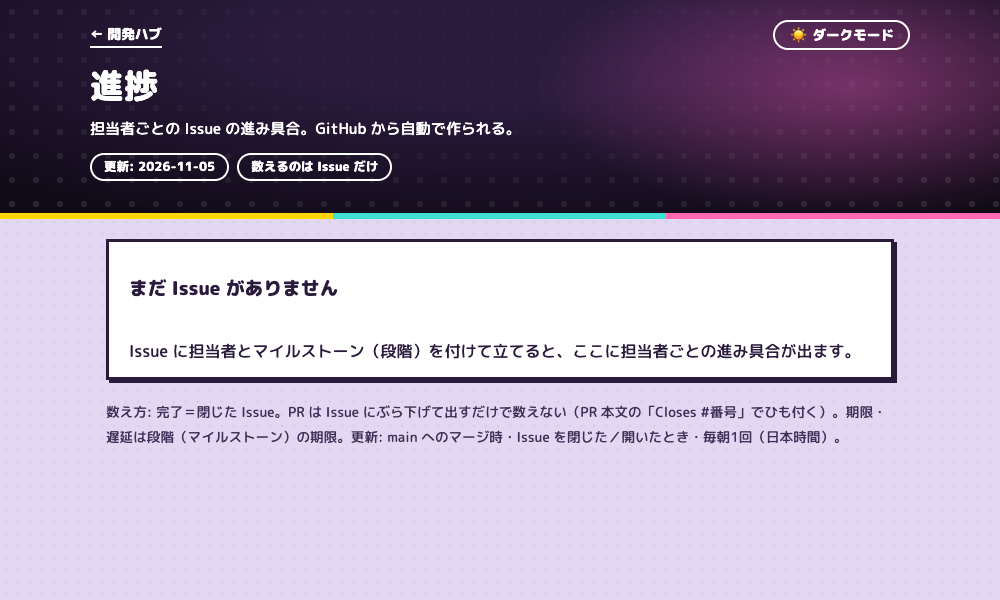
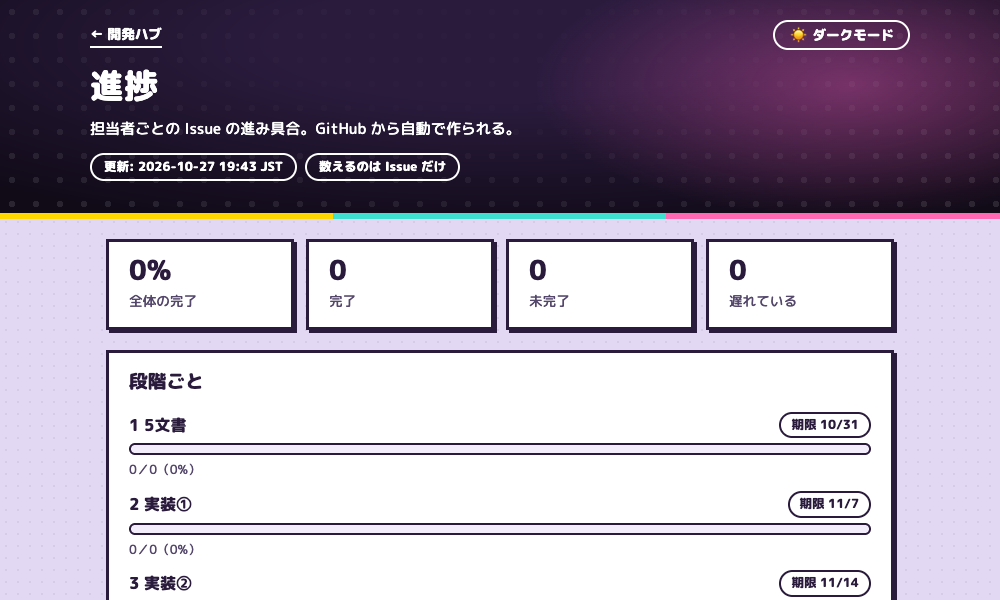
feat: 進捗の担当者欄を3名＋担当未定にし、サンプル表示に札を付ける (M80-22)

diff --git a/scripts/build-progress.py b/scripts/build-progress.py
@@ -4,7 +4,8 @@
 GitHub の Issue とマイルストーンを API で読み、担当者ごとの進み具合を HTML 1枚にする。
   - 数えるのは Issue だけ（完了＝閉じた Issue）。PR は Issue にぶら下げて表示するだけで数えない
   - 期限・遅延はマイルストーン（段階）の due_on（日本時間の日付）
-  - 表示名は munder/progress-names.json（アカウント名 → 表示名）。無い人はアカウント名のまま
+  - 担当者欄に出すのは munder/progress-names.json に載っている人（アカウント名 → 表示名）だけ。
+    それ以外のアカウントや担当なしの Issue は「担当未定」1枠にまとめる（数えはする）
 
 使い方:
   GITHUB_TOKEN=... GITHUB_REPOSITORY=owner/repo python scripts/build-progress.py --out _site
@@ -23,7 +24,7 @@ import urllib.request
 JST = dt.timezone(dt.timedelta(hours=9))
 ROOT = os.path.dirname(os.path.dirname(os.path.abspath(__file__)))
 CLOSE_RE = re.compile(r"\b(?:close[sd]?|fix(?:e[sd])?|resolve[sd]?)\s*:?\s+#(\d+)", re.I)
-NO_ASSIGNEE = "（担当なし）"
+NO_ASSIGNEE = "担当未定"
 NO_MILESTONE = "段階なし"
 
 
@@ -79,7 +80,7 @@ def build_model(issues, milestones, names, today):
         d = due.get(ms["number"]) if ms else None
         done = i["state"] == "closed"
         late = (today - d).days if (d and not done and today > d) else 0
-        logins = [a["login"] for a in i.get("assignees") or []] or [None]
+        logins = [a["login"] for a in i.get("assignees") or [] if a["login"] in names] or [None]
         rows.append({"number": i["number"], "title": i["title"], "url": i["html_url"], "done": done,
                      "stage": ms["title"] if ms else NO_MILESTONE, "due": d, "late": late,
                      "assignees": logins, "prs": linked.get(i["number"], [])})
@@ -87,7 +88,7 @@ def build_model(issues, milestones, names, today):
     for r in rows:
         for login in r["assignees"]:
             key = login or NO_ASSIGNEE
-            p = people.setdefault(key, {"name": names.get(login, login) if login else NO_ASSIGNEE,
+            p = people.setdefault(key, {"name": names[login] if login else NO_ASSIGNEE,
                                         "login": login, "rows": []})
             p["rows"].append(r)
     order = sorted(people.values(), key=lambda p: (p["login"] is None, p["name"]))
@@ -173,12 +174,13 @@ CSS = """
 .st.set{background:var(--m1);color:#12091F;border:var(--bw1) solid var(--line)}
 .pr{font-size:var(--fs-xs);font-weight:800}
 .stg2 li{display:grid;grid-template-columns:minmax(0,1fr) auto;gap:4px var(--s3);align-items:center}.stg2 .bar{grid-column:1/-1}.sn{font-weight:800}.sv{font-size:var(--fs-xs);color:var(--csub)}
+.sample{display:inline-block;margin-left:var(--s3);padding:0 14px;border:var(--bw2) solid var(--btxt);border-radius:var(--rp);background:var(--m1);color:#12091F;font:800 var(--fs-m)/1.8 var(--body);vertical-align:middle;-webkit-text-stroke:0}.sample-note{margin:var(--s3) 0 0;font-weight:800;font-size:var(--fs-s)}
 .note{font-size:var(--fs-s);color:var(--sub)}
 @media(max-width:480px){.ph{flex-wrap:wrap}.num{margin-left:0;text-align:left;width:100%}}
 """
 
 
-def page(body, updated):
+def page(body, updated, sample=False):
     return f"""<!doctype html>
 <html lang="ja">
 <head>
@@ -198,9 +200,10 @@ def page(body, updated):
 <body>
 <header class="kb-band"><div class="kb-in">
 <div class="kb-nav"><a href="hub.html">← 開発ハブ</a><button id="tg" class="tg" type="button" aria-pressed="false" aria-label="ダークモード" hidden><span class="ic" aria-hidden="true">☀</span><span>ダークモード</span></button></div>
-<h1>進捗</h1>
+<h1>進捗{'<span class="sample">サンプル</span>' if sample else ''}</h1>
 <p class="lead">担当者ごとの Issue の進み具合。GitHub から自動で作られる。</p>
 <ul class="meta"><li>更新: {e(updated)}</li><li>数えるのは Issue だけ</li></ul>
+{'<p class="sample-note">ダミーデータの表示例です。実際の Issue ではありません。</p>' if sample else ''}
 </div></header>
 <main class="kb"><div class="pg">
 {body}
@@ -212,11 +215,11 @@ def page(body, updated):
 """
 
 
-def render(model, updated):
+def render(model, updated, sample=False):
     if not model["total"] and not model["stages"]:
         body = ('<div class="empty"><h3>まだ Issue がありません</h3>'
                 '<p>Issue に担当者とマイルストーン（段階）を付けて立てると、ここに担当者ごとの進み具合が出ます。</p></div>')
-        return page(body, updated)
+        return page(body, updated, sample)
     pc = pct(model["done"], model["total"])
     late = sum(1 for p in model["people"] for r in p["rows"] if r["late"])
     parts = [f'<div class="sum"><div><b>{pc}%</b><span>全体の完了</span></div>'
@@ -230,7 +233,7 @@ def render(model, updated):
         parts += [render_person(p) for p in model["people"]]
     else:
         parts.append('<div class="empty"><h3>まだ Issue がありません</h3><p>段階（マイルストーン）だけ作られています。</p></div>')
-    return page("\n".join(parts), updated)
+    return page("\n".join(parts), updated, sample)
 
 
 def error_page(msg, updated):
@@ -261,7 +264,7 @@ def main():
             token = os.environ.get("GITHUB_TOKEN")
             issues = api_get(repo, "issues?state=all", token)
             milestones = api_get(repo, "milestones?state=all", token)
-        text = render(build_model(issues, milestones, load_names(a.names), today), updated)
+        text = render(build_model(issues, milestones, load_names(a.names), today), updated, sample=bool(a.data))
     except Exception as ex:  # 公開全体を止めない
         print(f"warning: 進捗を作れませんでした: {type(ex).__name__}", file=sys.stderr)
         text = error_page(type(ex).__name__, updated)

diff --git a/scripts/test_build_progress.py b/scripts/test_build_progress.py
@@ -8,7 +8,7 @@ D = os.path.dirname(os.path.abspath(__file__))
 spec = importlib.util.spec_from_file_location("bp", os.path.join(D, "build-progress.py"))
 bp = importlib.util.module_from_spec(spec)
 spec.loader.exec_module(bp)
-NAMES = {"Hiroki0023": "PM", "re-ji-tech0": "レージ"}
+NAMES = {"Hiroki0023": "だーあさ", "re-ji-tech0": "レージ", "matsuki24335": "りゅうちゃん"}
 
 
 def model(today="2026-11-05", data="progress-sample.json"):
@@ -30,9 +30,19 @@ class T(unittest.TestCase):
 
     def test_names_and_fallback(self):
         names = [p["name"] for p in model()["people"]]
-        self.assertIn("PM", names)
-        self.assertIn("matsuki24335", names)  # 対応表に無い → アカウント名
+        self.assertEqual(sorted(names[:-1]), sorted(["だーあさ", "レージ", "りゅうちゃん"]))
         self.assertEqual(names[-1], bp.NO_ASSIGNEE)
+
+    def test_non_member_goes_to_undecided(self):
+        i = {"number": 1, "title": "t", "state": "open", "html_url": "https://github.com/a/b/issues/1",
+             "milestone": None, "assignees": [{"login": "guest-dev"}]}
+        m = bp.build_model([i], [], NAMES, dt.date(2026, 11, 5))
+        self.assertEqual([p["name"] for p in m["people"]], [bp.NO_ASSIGNEE])
+        self.assertEqual(m["total"], 1)
+
+    def test_sample_label_only_with_flag(self):
+        self.assertIn("ダミーデータの表示例", bp.render(model(), "x", sample=True))
+        self.assertNotIn("ダミーデータの表示例", bp.render(model(), "x"))
 
     def test_pr_linked_not_counted(self):
         rows = {r["number"]: r for p in model()["people"] for r in p["rows"]}
